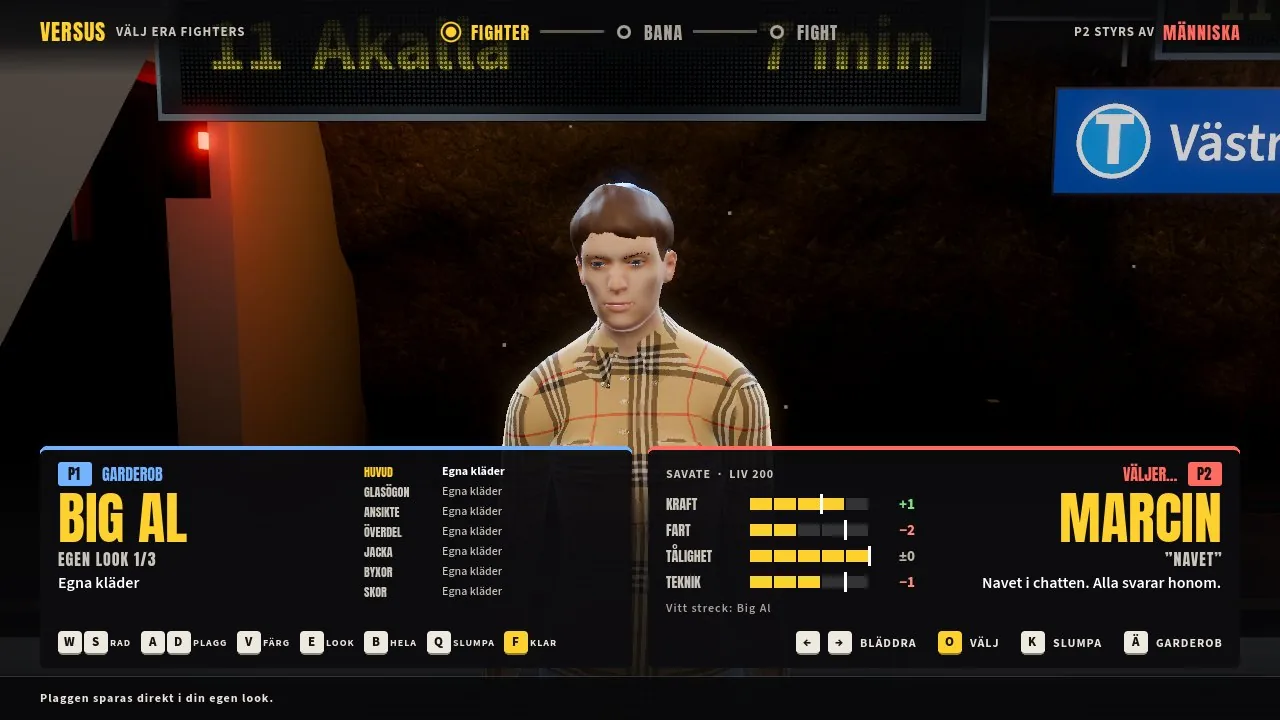
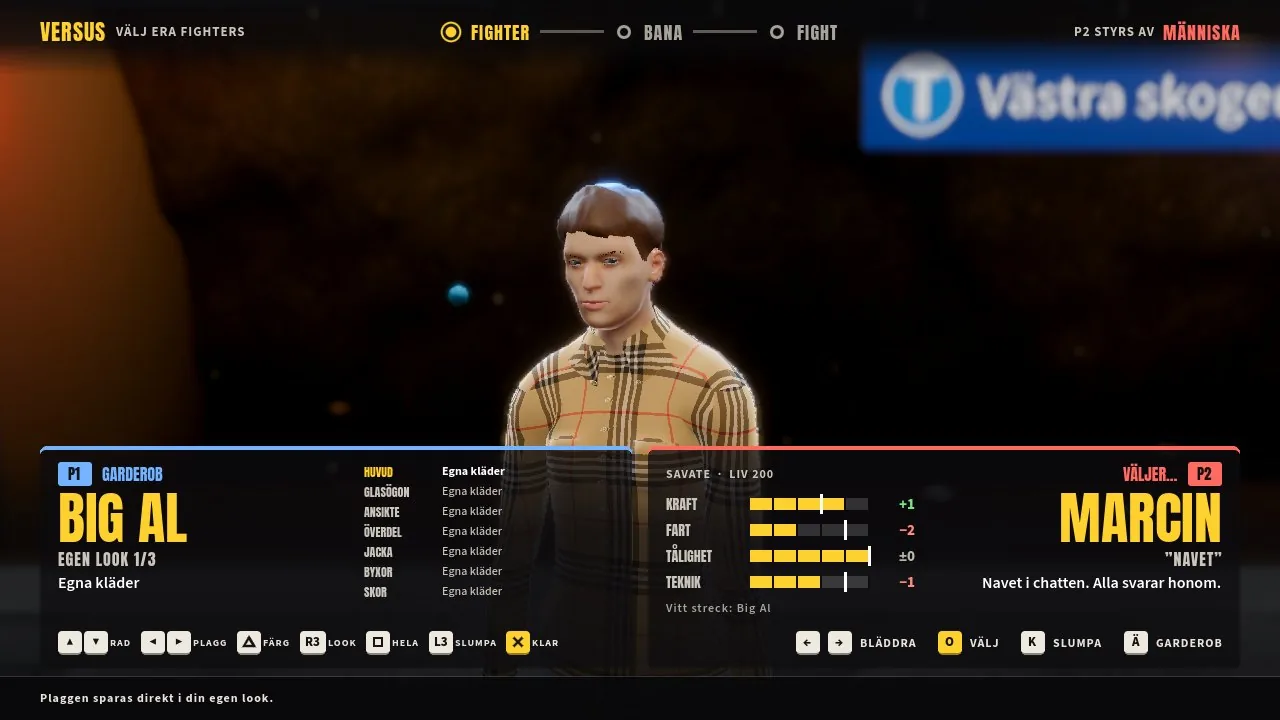
The new select screen and wardrobe close-up

diff --git a/index.html b/index.html
@@ -638,7 +638,7 @@ footer .brand { font-size: 22px; }
         <figure class="mode"><img src="img/stages/meny_spela.webp" alt="Avgångstavlan med lägena under Spela" loading="lazy"><figcaption><h3>SPELA</h3><p>Versus vid samma skärm, mot datorn på tre nivåer, och Sista man kvar: resten av gänget i rad, livet följer med och rekordet sparas.</p></figcaption></figure>
         <figure class="mode"><img src="img/stages/arkad.webp" alt="Arkadläget mellan två matcher" loading="lazy"><figcaption><h3>ARKAD</h3><p>Åtta matcher mot datorn under en natt efter derbyt. Fortsätt där du slutade.</p></figcaption></figure>
         <figure class="mode"><img src="img/stages/fighterskola.webp" alt="Fighterskolan i träningsläget" loading="lazy"><figcaption><h3>FIGHTERSKOLA</h3><p>Träning mot en docka med frame data, och en skola som visar en attack i taget: gör den tre gånger, sedan nästa.</p></figcaption></figure>
-        <figure class="mode"><img src="img/stages/garderob_valskarm.webp" alt="Garderoben med gänget på perrongen" loading="lazy"><figcaption><h3>GARDEROB</h3><p>Klä om fighterna plagg för plagg, från huvudet till skorna, och spara tre egna looks. De följer med online och i repriserna.</p></figcaption></figure>
+        <figure class="mode"><img src="img/stages/garderob_valskarm.webp" alt="Garderoben: närbild på Big Al med plaggens rader på kortet" loading="lazy"><figcaption><h3>GARDEROB</h3><p>Klä om fighterna plagg för plagg, från huvudet till skorna, och spara tre egna looks. De följer med online och i repriserna.</p></figcaption></figure>
         <figure class="mode"><img src="img/stages/turnering.webp" alt="Turneringsträd med fighters som går vidare" loading="lazy"><figcaption><h3>TURNERING</h3><p>Tre till sexton spelare vid samma skärm. Lottat träd med friplatser och sparad fortsättning.</p></figcaption></figure>
         <figure class="mode"><img src="img/stages/repris.webp" alt="Repris av en tidigare match" loading="lazy"><figcaption><h3>REPRISER</h3><p>Spela upp sparade matcher, byt fart och vrid kameran för att se träffen igen.</p></figcaption></figure>
       </div>
@@ -650,10 +650,10 @@ footer .brand { font-size: 22px; }
       <div class="section-head">
         <span class="num" aria-hidden="true">06</span>
         <h2>FRÅN VAL TILL KNOCKOUT</h2>
-        <p>Gänget står på perrongen i Västra skogen medan ni väljer, avgångsskylten ropar ut banan och tåget rusar förbi när det blir VS.</p>
+        <p>Ni väljer i porträtten mitt på skärmen medan era fighters står på var sin halva av perrongen i Västra skogen. Avgångsskylten ropar ut banan och tåget rusar förbi när det blir VS.</p>
       </div>
       <div class="modes">
-        <figure class="mode"><img src="img/stages/valskarm.webp" alt="Valskärmen med hela gänget på perrongen" loading="lazy"><figcaption><h3>VÄLJ FIGHTER</h3><p>Profilkort med kraft, fart, tålighet och teknik, och skillnaden mot den du möter.</p></figcaption></figure>
+        <figure class="mode"><img src="img/stages/valskarm.webp" alt="Valskärmen: Marcin och Miki på var sin halva, porträtten av alla i mitten" loading="lazy"><figcaption><h3>VÄLJ FIGHTER</h3><p>Porträtt av alla i mitten, och profilkort med kraft, fart, tålighet och teknik och skillnaden mot den du möter.</p></figcaption></figure>
         <figure class="mode"><img src="img/stages/valj_bana.webp" alt="Banvalet med förhandsbilder" loading="lazy"><figcaption><h3>VÄLJ BANA</h3><p>Sju banor i helbild, med vad som händer på var och en.</p></figcaption></figure>
         <figure class="mode"><img src="img/stages/vs.webp" alt="VS-skärmen med de två fighterna" loading="lazy"><figcaption><h3>VS</h3><p>De två sida vid sida med smeknamn och introreplik.</p></figcaption></figure>
         <figure class="mode"><img src="img/stages/resultat.webp" alt="Resultatskärmen efter en match" loading="lazy"><figcaption><h3>RESULTAT</h3><p>Vinnarens replik, skada, längsta kombo och räknade counters, och en tangent till revansch.</p></figcaption></figure>
